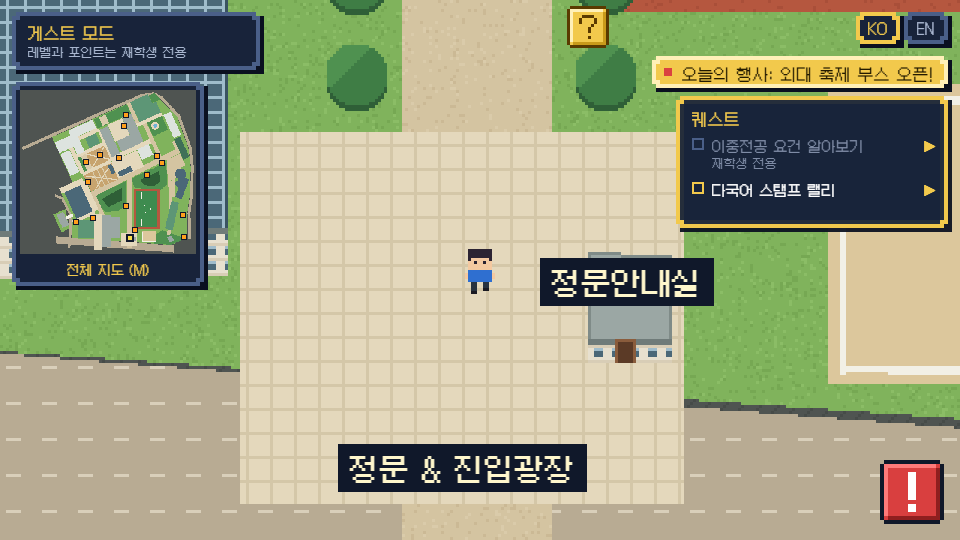
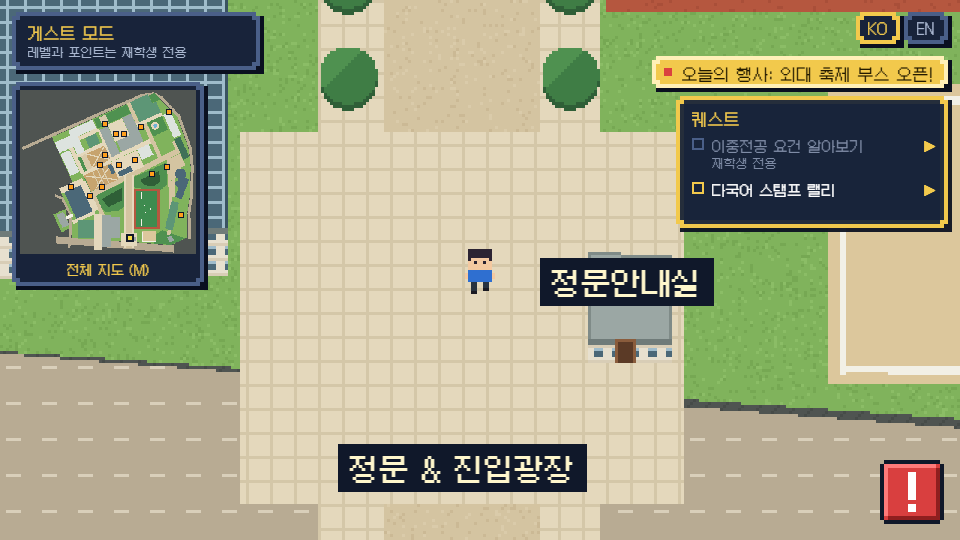
fix: 정문 진입로를 위성 사진 폭(보도 5m + 차도 13m + 보도 5m)으로, 전체 지도 현재 위치 표시가 이름표를 가리지 않게
- 진입로: 트랙 바깥선 ~ 남서쪽 숲 가장자리 약 24m를 재서 차도 13m + 양쪽 보도(가로수)로 넓힘. 통로 검사에 양쪽 보도 추가
- 전체 지도: 현재 위치 · 목적지 이름표를 점의 위 · 아래 · 오른쪽 · 왼쪽 중 장소 이름표와 겹치지 않는 자리에 둠
- 정문 & 진입광장 · 정문안내실 지도 이름표 자리를 서로 벌림
- 시작 화면 · 전체 지도 · 진입로 스크린샷 다시 찍음

diff --git a/src/data/campusV2Data.js b/src/data/campusV2Data.js
@@ -43,7 +43,8 @@ export const AREAS = [
   ["road",[[9.2,54.6],[109.6,16.5],[112.7,23.7],[12.3,61.8]]],
   ["road",[[101.9,19.7],[150.3,-2.1],[153.8,4.9],[105.4,26.7]]],
   ["road",[[142.6,2.1],[176.2,-19.6],[180.9,-13.2],[147.3,8.5]]],
-  ["road",[[11.4,-47.5],[16.6,-36.1],[171.4,-106.3],[166.2,-117.7]]],
+  ["pave",[[8.5,-53.8],[18.2,-32.4],[173,-102.7],[163.3,-124.1]]],
+  ["road",[[10.8,-48.8],[16.2,-37],[171,-107.2],[165.6,-119]]],
   ["road",[[22.1,-132.8],[79.6,-132.8],[79.6,-142.3],[22.1,-142.3]]],
   ["pave",[[-88.3,85.6],[-80.1,85.6],[-80.1,21],[-88.3,21]]],
   ["pave",[[-43.2,35.6],[-32.4,35.6],[-32.4,-70.8],[-43.2,-70.8]]],
@@ -155,38 +156,38 @@ export const TREES = [
   [9.5,-122.8,2.6],
   [28.8,-130.1,2.6],
   [9.8,-130.8,2.6],
-  [18.9,-55.2,2.6],
-  [27.5,-36.1,2.6],
-  [26.2,-58.5,2.6],
-  [34.8,-39.4,2.6],
-  [33.4,-61.8,2.6],
-  [42.1,-42.7,2.6],
-  [40.7,-65.1,2.6],
-  [49.4,-46,2.6],
-  [48,-68.4,2.6],
-  [56.7,-49.3,2.6],
-  [55.3,-71.8,2.6],
-  [64,-52.6,2.6],
-  [62.6,-75.1,2.6],
-  [71.3,-55.9,2.6],
-  [69.9,-78.4,2.6],
-  [78.5,-59.2,2.6],
-  [77.2,-81.7,2.6],
-  [85.8,-62.5,2.6],
-  [84.4,-85,2.6],
-  [93.1,-65.8,2.6],
-  [91.7,-88.3,2.6],
-  [100.4,-69.2,2.6],
-  [99,-91.6,2.6],
-  [107.7,-72.5,2.6],
-  [106.3,-94.9,2.6],
-  [115,-75.8,2.6],
-  [113.6,-98.2,2.6],
-  [122.3,-79.1,2.6],
-  [120.9,-101.5,2.6],
-  [129.5,-82.4,2.6],
-  [128.2,-104.8,2.6],
-  [136.8,-85.7,2.6],
+  [18.7,-55.7,2.4],
+  [26.3,-38.8,2.4],
+  [25.9,-59,2.4],
+  [33.6,-42.1,2.4],
+  [33.2,-62.3,2.4],
+  [40.9,-45.4,2.4],
+  [40.5,-65.6,2.4],
+  [48.2,-48.8,2.4],
+  [47.8,-68.9,2.4],
+  [55.4,-52.1,2.4],
+  [55.1,-72.2,2.4],
+  [62.7,-55.4,2.4],
+  [62.4,-75.5,2.4],
+  [70,-58.7,2.4],
+  [69.7,-78.8,2.4],
+  [77.3,-62,2.4],
+  [76.9,-82.1,2.4],
+  [84.6,-65.3,2.4],
+  [84.2,-85.4,2.4],
+  [91.9,-68.6,2.4],
+  [91.5,-88.7,2.4],
+  [99.2,-71.9,2.4],
+  [98.8,-92,2.4],
+  [106.4,-75.2,2.4],
+  [106.1,-95.3,2.4],
+  [113.7,-78.5,2.4],
+  [113.4,-98.6,2.4],
+  [121,-81.8,2.4],
+  [120.7,-102,2.4],
+  [128.3,-85.1,2.4],
+  [127.9,-105.3,2.4],
+  [135.6,-88.4,2.4],
   [-44.1,84.7,2.6],
   [-34.9,84.7,2.6],
   [-25.6,84.7,2.6],
@@ -221,14 +222,14 @@ export const BUILDINGS_M = [
   {"id":"cyber","official":[106,-127],"height":"high","roof":"gray","polys":[[[84.3,-123.9],[94.7,-101.1],[139.3,-121.4],[129,-144.2]],[[71.9,-139.1],[81,-119.1],[149.3,-150.1],[140.2,-170.1]]],"partRoofs":["solar","gray"]},
   {"id":"club","official":[82,-190],"height":"mid","roof":"green","polys":[[[61.1,-194.6],[76.3,-160.9],[113.7,-177.8],[98.4,-211.5]]]},
   {"id":"faculty","official":[44,-220],"height":"mid","roof":"gray","polys":[[[28.5,-218],[61.6,-218],[61.6,-234.7],[28.5,-234.7]]]},
-  {"id":"gatehouse","official":null,"height":"low","roof":"gray","polys":[[[149.9,-93.2],[152.8,-86.9],[161,-90.6],[158.1,-97]]]},
+  {"id":"gatehouse","official":null,"height":"low","roof":"gray","mapLabelOffset":[104,-6],"polys":[[[149.9,-93.2],[152.8,-86.9],[161,-90.6],[158.1,-97]]]},
 ];
 
 export const OPEN_SPACES_M = [
   {"id":"field","official":[102,-35],"poly":[[48.5,-45.6],[73,8.4],[156.8,-29.6],[132.3,-83.6]]},
   {"id":"square","official":[-7,-48],"poly":[[-31.5,-2.3],[-4,-2.3],[-4,-68.7],[-31.5,-68.7]],"mapLabelOffset":[-80,-40]},
   {"id":"lawn","official":[-9,-106],"poly":[[-72.5,-65.8],[12.7,-65.8],[12.7,-139.4],[-72.5,-139.4]]},
-  {"id":"gate","official":[145,-113],"poly":[[128.8,-115.5],[144.1,-81.8],[172.3,-94.6],[157,-128.3]],"tagAt":"bottom"},
+  {"id":"gate","official":[145,-113],"poly":[[128.8,-115.5],[144.1,-81.8],[172.3,-94.6],[157,-128.3]],"tagAt":"bottom","mapLabelOffset":[-92,16]},
 ];
 
 // 반드시 걸어서 지나갈 수 있어야 하는 통로(테스트가 확인)
@@ -240,5 +241,7 @@ export const PASSAGES_M = [
   ["도서관 서쪽",[[-18.6,-157.2],[-18.6,-193]]],
   ["도서관 동쪽",[[59.7,-160.2],[59.7,-190]]],
   ["사이버관-교수회관 사이",[[74.6,-150.2],[133.8,-177.1]]],
-  ["정문 진입로",[[159.8,-107.6],[23.2,-45.7]]],
+  ["정문 진입로(차도)",[[159.2,-109],[22.6,-47]]],
+  ["정문 진입로(서쪽 보도)",[[127.9,-105.3],[18.7,-55.7]]],
+  ["정문 진입로(동쪽 보도)",[[135.6,-88.4],[26.3,-38.8]]],
 ];

diff --git a/src/scenes/MapScene.js b/src/scenes/MapScene.js
@@ -82,12 +82,32 @@ export class MapScene extends Phaser.Scene {
     addLabel(this, n.x, n.y, getLang() === "en" ? "N" : "북", { size: 12, color: "#ff8f92" }).setOrigin(0.5);
   }
 
+  // 표시(현재 위치 · 목적지) 이름표: 점의 위 · 아래 · 오른쪽 · 왼쪽 가운데 지도 밖으로 나가지 않고
+  // 장소 이름표 · 다른 표시와 겹치지 않는 첫 자리에 둡니다. 다 겹치면 위쪽(지도 안으로 맞춤).
   addMapTag(x, y, text, background, color) {
-    const tag = addLabel(this, x, y - 12, text, { size: 12, color, backgroundColor: background, padding: { x: 4, y: 2 } }).setOrigin(0.5, 1);
-    // 표시가 지도 밖으로 나가지 않게 위치를 맞춥니다.
-    const half = tag.width / 2;
-    tag.setX(Phaser.Math.Clamp(x, MAP.x + half, MAP.x + this.mapSize.width - half));
-    if (tag.y - tag.height < MAP.y) tag.setOrigin(0.5, 0).setY(y + 12);
+    const tag = addLabel(this, x, y, text, { size: 12, color, backgroundColor: background, padding: { x: 4, y: 2 } }).setOrigin(0.5);
+    const w = tag.width;
+    const h = tag.height;
+    const gap = 9;
+    const spots = [
+      [x, y - gap - h / 2],
+      [x, y + gap + h / 2],
+      [x + gap + w / 2, y],
+      [x - gap - w / 2, y],
+    ];
+    const inMap = ([cx, cy]) =>
+      cx - w / 2 >= MAP.x && cx + w / 2 <= MAP.x + this.mapSize.width && cy - h / 2 >= MAP.y && cy + h / 2 <= MAP.y + this.mapSize.height;
+    const others = [...(this.placeLabels ?? []), ...(this.mapTags ?? [])].map((o) => o.getBounds());
+    const free = ([cx, cy]) => {
+      const r = new Phaser.Geom.Rectangle(cx - w / 2 - 2, cy - h / 2 - 2, w + 4, h + 4); // 2px 여백
+      return others.every((o) => !Phaser.Geom.Intersects.RectangleToRectangle(r, o));
+    };
+    const [cx, cy] = spots.find((s) => inMap(s) && free(s)) ?? spots[0];
+    tag.setPosition(
+      Phaser.Math.Clamp(cx, MAP.x + w / 2, MAP.x + this.mapSize.width - w / 2),
+      Phaser.Math.Clamp(cy, MAP.y + h / 2, MAP.y + this.mapSize.height - h / 2),
+    );
+    (this.mapTags ??= []).push(tag);
     return tag;
   }
 
